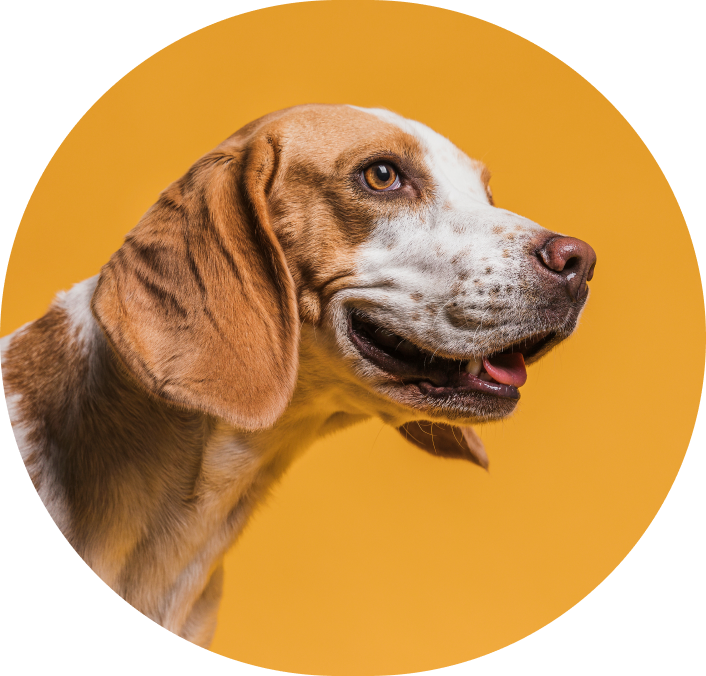
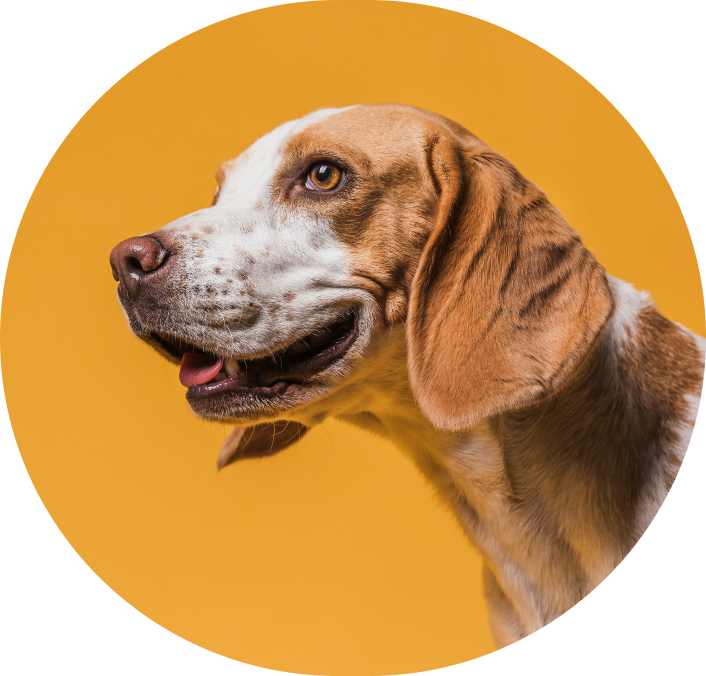
finalizando a home

diff --git a/src/App.css b/src/App.css
@@ -24,26 +24,14 @@ body {
 body {
   background-color: #f6f6f6;
 }
+header {
+  z-index: 1000;
+}
 
-nav {
-  display: flex;
-  align-items: center;
-  justify-content: space-between;
-  min-height: 90px;
-}
-.navbar-menu-container {
-  display: none;
-}
-.navbar-links-container a {
-  margin-right: 3rem;
-  text-decoration: none;
-  color: black;
-  font-size: 1.1rem;
-  font-weight: 600;
-}
+
 .primary-button {
   padding: 0.9rem 1.75rem;
-  background-color: white;
+  background-color: rgb(32, 24, 24);
   outline: none;
   border: none;
   border-radius: 5rem;
@@ -52,55 +40,54 @@ nav {
   font-weight: 600;
   transition: 0.2s;
 }
-.navbar-cart-icon {
-  font-size: 1.15rem;
-}
+
 .primary-button:hover {
   background-color: rgb(234, 234, 234);
 }
-/* .navbar-menu-container svg {
-  font-size: 1.5rem;
-  cursor: pointer;
-} */
 .home-banner-container {
   position: relative;
   display: flex;
-  padding-top: 3rem;
+  padding-top: 5rem;
 }
 .home-bannerImage-container {
   position: absolute;
-  top: -100px;
-  right: -170px;
+  top: 100px;
+  right: -100px;
   z-index: -2;
-  max-width: 700px;
+  max-width: 500px;
+; 
 }
 .home-image-section {
-  max-width: 600px;
+  margin-top: 130px;
+  margin-right: 200px;
+  max-width: 300px;
   flex: 1;
+  align-items: flex-end;
 }
 .home-text-section {
   flex: 1;
-  display: flex;
+  display: block;
+  top: 100px;
   flex-direction: column;
   justify-content: center;
-  align-items: flex-start;
-  margin-left: 2rem;
+  align-items: flex-start; /* Centralize os itens verticalmente */
+  margin-left: 4rem;
 }
 .primary-heading {
   font-size: clamp(2rem, 5vw, 4rem);
-  color: #4c4c4c;
+  color: #000000;
   /* line-height: 5rem; */
   max-width: 600px;
 }
 .primary-text {
   font-size: 18px;
-  max-width: 500px;
+  max-width: 400px;
   color: #000000;
   margin: 1.5rem 0rem;
 }
 .secondary-button {
   padding: 1rem 2.5rem;
-  background-color: #fe9e0d;
+  background-color: #EF9F20;
   outline: none;
   border: none;
   border-radius: 5rem;
@@ -143,6 +130,7 @@ nav {
   flex-direction: column;
 }
 .primary-subheading {
+  position: sticky;
   font-weight: 200;
   color: #000000;
   font-size: 35px;
@@ -150,7 +138,8 @@ nav {
 .secondary-subheading {
   font-weight: 700;
   color: #000000;
-  font-size: 45px;
+  font-size: 50px;
+  letter-spacing: 3px;
 }
 .about-buttons-container {
   margin-top: 2rem;
@@ -435,10 +424,30 @@ nav {
   }
 }
 
+
 @media (max-width: 800px) {
   .home-text-section {
     margin-left: 0; /* Remova a margem esquerda */
-    text-align: center; /* Centralize o texto */
+    text-align: center; /* Centralize o texto horizontalmente */
     align-items: center; /* Centralize os itens verticalmente */
+    display: flex; /* Adicione display flex para alinhar verticalmente */
+    flex-direction: column; /* Ajuste para exibir o conteúdo em coluna */
+  }
+
+  .primary-subheading,
+  .secondary-subheading {
+    text-align: center; /* Centralize o texto dentro dos subheadings */
   }
 }
+
+
+@media (max-width: 800px) {
+  .home-image-section {
+    width: 300px; /* Ajuste o tamanho conforme necessário */
+    text-align: center;
+    margin: auto; /* Adicione isso para centralizar horizontalmente */
+    position: relative; /* Adicione isso para alinhar a imagem ao centro */
+    top: 20px;
+  }
+}
+

diff --git a/src/components/Home.jsx b/src/components/Home.jsx
@@ -1,24 +1,34 @@
 import { Carousel } from 'flowbite';
 import React from 'react';
 import Navbar from './Navbar';
-import Elipse from '../assets/Elipse.png'; 
-import Dog from '../assets/Dog.png'; 
-import { FiArrowRight } from 'react-icons/fi'
-
-
+import Elipse from '../assets/Elipse.png';
+import Dog from '../assets/Dog.png';
+import { FiArrowRight } from 'react-icons/fi';
 
 const Home = () => {
   return (
     <div className="home-container">
       <Navbar />
-      <div className='home-text-section mt-28'>
-        <h1 className='primary-subheading'>Não compre,</h1>
-        <h1 className='secondary-subheading '>adote!</h1>
-        <p className='primary-text'>Lorem ipsum dolor sit, amet consectetur adipisicing elit. Sed sunt consectetur accusantium porro? Dolores, odit commodi quasi corporis consequuntur saepe porro voluptate exercitationem, vero laudantium praesentium, deserunt molestiae quod minus.</p>
-        <button className='secondary-button'>Adote agora mesmo <FiArrowRight/></button>
+      <div className="home-banner-container">
+        <div className="home-bannerImage-container">
+          <img src={Elipse} alt="" />
+        </div>
+        <div className="home-text-section">
+          <h1 className="primary-heading">
+            Não compre, adote!
+          </h1>
+          <p className="primary-text">
+            Quando você adota um pet, salva duas vidas: a sua e a dele.
+          </p>
+          <button className="secondary-button">
+           Adotar agora<FiArrowRight />{" "}
+          </button>
+        </div>
+        <div className="home-image-section">
+          <img src={Dog} alt="" />
+        </div>
       </div>
     </div>
-    
   );
 };
 export default Home;

diff --git a/src/components/Navbar.jsx b/src/components/Navbar.jsx
@@ -57,7 +57,7 @@ const Navbar = () => {
                     spy={true}
                     smooth={true}
                     offset={-100}
-                    className="block text-sm text-black hover:text-white"
+                    className="block text-sm text-white hover:text-black"
                   >
                     {link}
                   </Link>
@@ -78,7 +78,7 @@ const Navbar = () => {
               </button>
             </div>
 
-            <div className={`space-y-4 px-4 mt-16 py-7 md:hidden  bg-mainOrange ${isMenuOpen ? 'block fixed top-0 right-0 left-0' : 'hidden'}`}>
+            <div className={`space-y-4 px-4 mt-16 py-7 md:hidden bg-mainOrange ${isMenuOpen ? 'block fixed top-0 right-0 left-0 z-50' : 'hidden'}`}>
               {navItems.map(({ link, path }) => (
                 <Link
                   to={path}
